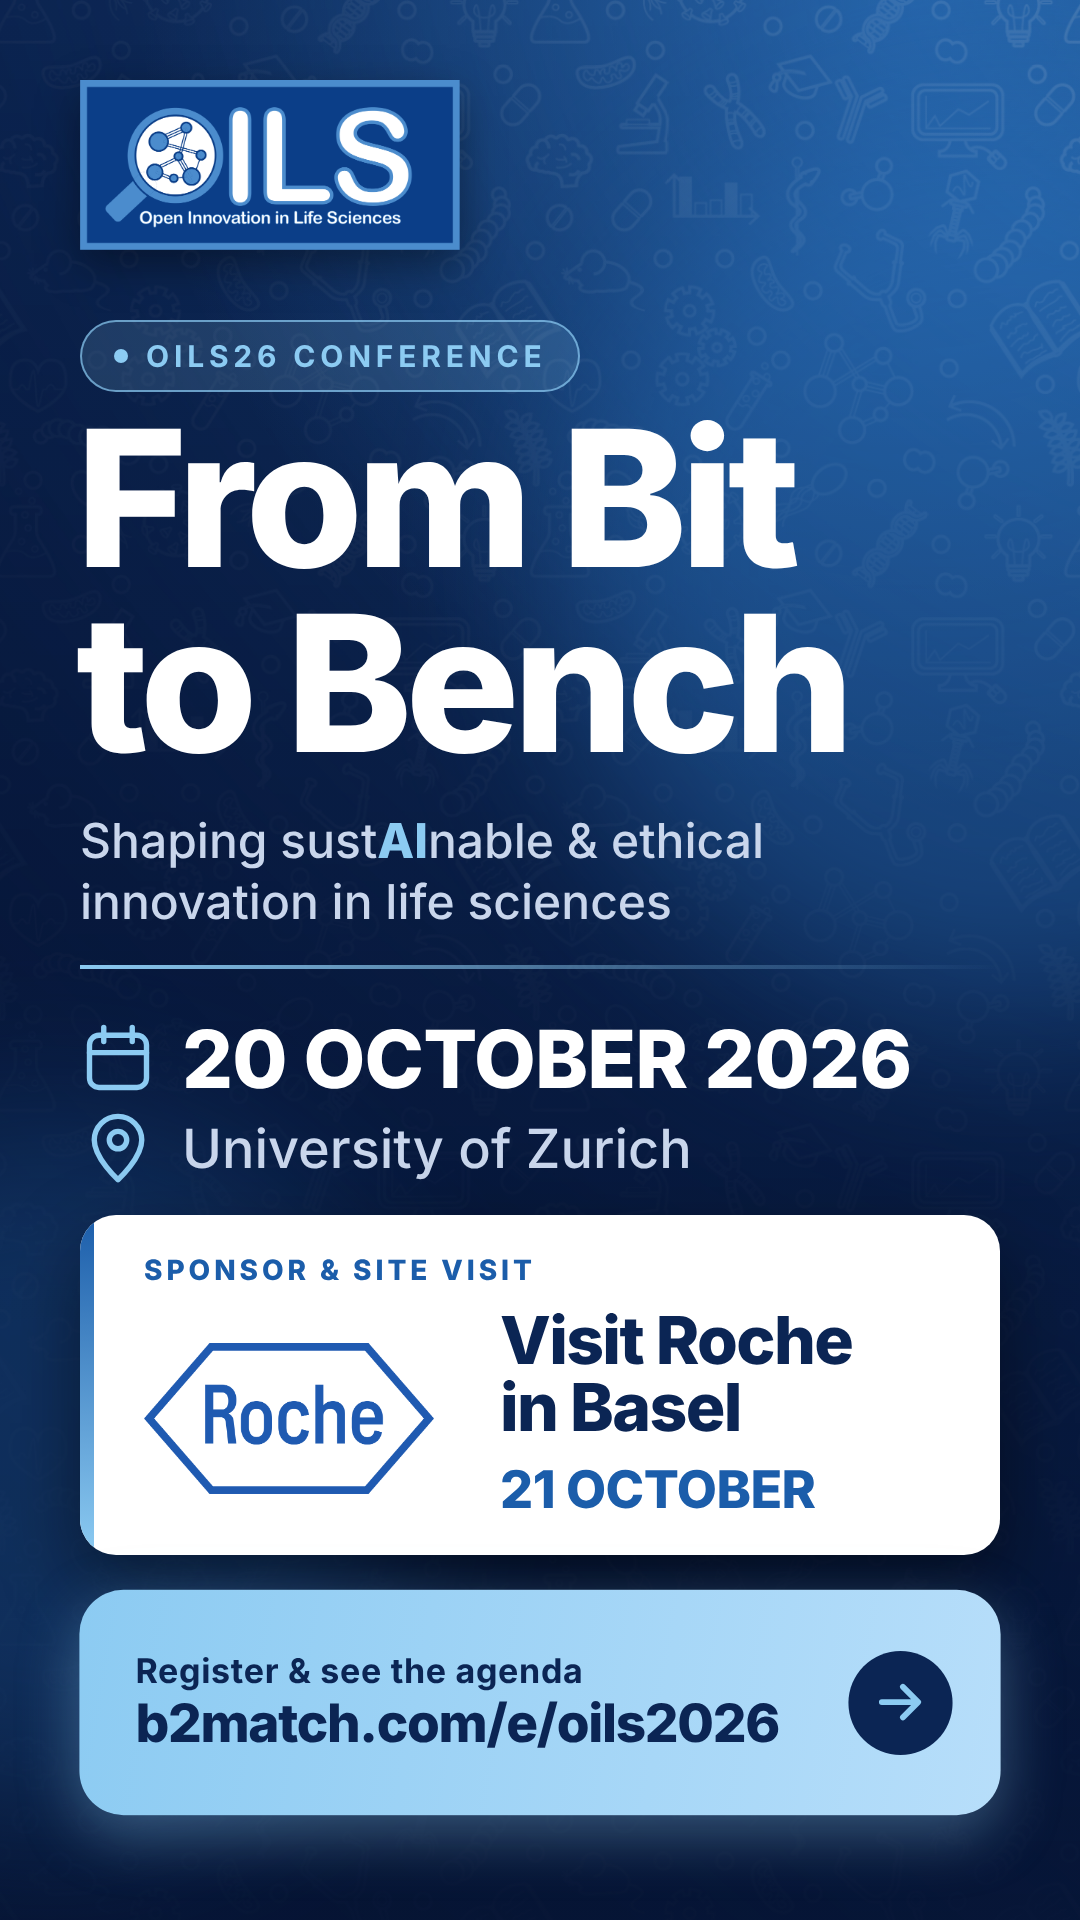
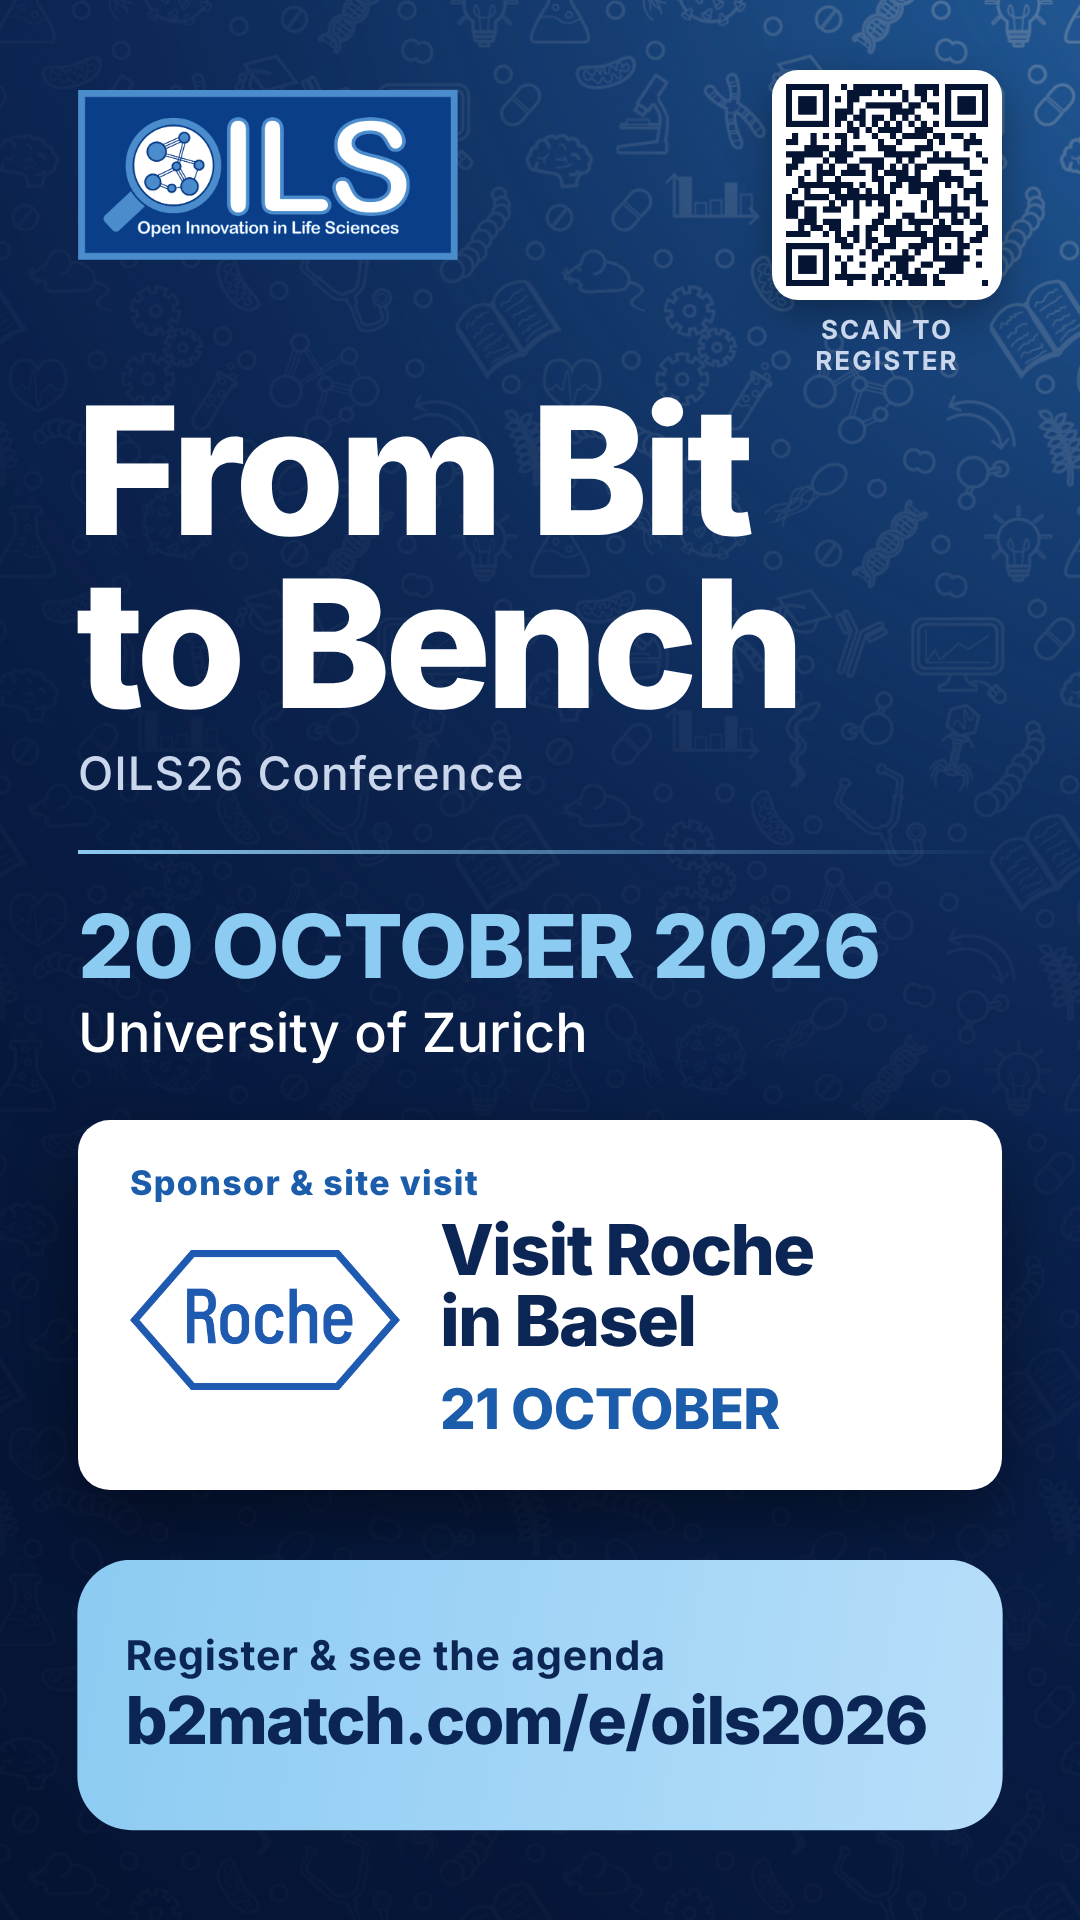
ETH v2 screens: closer to original look, QR at top, no arrow on CTA
Claude-Session: https://claude.ai/code/session_01Yap9T87JWAqq3mxYKugXQZ

diff --git a/Logistica_ETH/build_eth_motion.js b/Logistica_ETH/build_eth_motion.js
@@ -28,10 +28,8 @@ const uri = (file, mime) =>
 const BG = uri("bg_teaser.jpg", "image/jpeg");
 const OILS = uri("oils_logo_fallback.png", "image/png");
 const ROCHE = uri("logo_roche.png", "image/png");
+const QR = uri("qr_oils2026.png", "image/png");
 
-const ICON_CAL = `<svg viewBox="0 0 48 48" fill="none" stroke="currentColor" stroke-width="3.4" stroke-linecap="round" stroke-linejoin="round"><rect x="6" y="9" width="36" height="33" rx="6"/><path d="M6 20h36M15 4v9M33 4v9"/></svg>`;
-const ICON_PIN = `<svg viewBox="0 0 48 48" fill="none" stroke="currentColor" stroke-width="3.4" stroke-linecap="round" stroke-linejoin="round"><path d="M24 44S9 30.5 9 19a15 15 0 0 1 30 0c0 11.500-15 25-15 25z"/><circle cx="24" cy="19" r="5.500"/></svg>`;
-const ICON_ARROW = `<svg viewBox="0 0 48 48" fill="none" stroke="currentColor" stroke-width="5" stroke-linecap="round" stroke-linejoin="round"><path d="M8 24h30M26 11l13 13-13 13"/></svg>`;
 
 // data-in = start second, data-d = duration, data-from = entrance direction
 const page = (w, h, layout) => `<!doctype html><html><head><meta charset="utf-8"><style>
@@ -40,9 +38,7 @@ const page = (w, h, layout) => `<!doctype html><html><head><meta charset="utf-8"
 html,body{width:${w}px;height:${h}px;overflow:hidden;background:var(--navy)}
 body{font-family:Eurostile,'Eurostile Extended',Inter,Helvetica,Arial,sans-serif;color:#fff;position:relative}
 .bg{position:absolute;inset:-6%;background:url(${BG}) center/cover;will-change:transform}
-.shade{position:absolute;inset:0;background:
-  radial-gradient(120% 70% at 85% 0%,rgba(46,120,200,.55),transparent 60%),
-  linear-gradient(180deg,rgba(6,20,51,.35),rgba(6,20,51,.78))}
+.shade{position:absolute;inset:0;background:rgba(6,20,51,.30)}
 .glow{position:absolute;border-radius:50%;filter:blur(90px);background:#2f7fd0;opacity:.35}
 .el{position:absolute;opacity:0}
 .title{font-weight:800;letter-spacing:-.035em;line-height:.98}
@@ -60,9 +56,7 @@ body{font-family:Eurostile,'Eurostile Extended',Inter,Helvetica,Arial,sans-serif
 .card .h{font-weight:800;letter-spacing:-.025em;line-height:1.02}
 .card .d{font-weight:800;color:var(--blue);letter-spacing:-.01em}
 .card img{display:block}
-.card .bar{height:100%;position:absolute;left:0;top:0;width:14px;background:linear-gradient(180deg,#1b5daa,#8ccbf2)}
-.cta{background:linear-gradient(100deg,#8ccbf2,#b7defa);color:var(--ink);display:flex;align-items:center;justify-content:space-between;
-  box-shadow:0 20px 60px rgba(140,203,242,.35)}
+.cta{background:linear-gradient(100deg,#8ccbf2,#b7defa);color:var(--ink);display:flex;align-items:center;justify-content:space-between}
 .cta .l{font-family:Inter,Helvetica,sans-serif;font-weight:700;letter-spacing:.02em}
 .cta .u{font-weight:800;letter-spacing:-.025em}
 .cta .go{background:var(--ink);color:var(--sky);border-radius:50%;display:grid;place-items:center;flex:none}
@@ -93,64 +87,66 @@ render(0);
 const portrait = {
   w: 1080, h: 1920,
   css: `
-  .logo{left:80px;top:80px;width:380px}.logo img{width:100%;display:block;box-shadow:0 14px 40px rgba(0,0,0,.4)}
-  .chip{font-size:30px;padding:16px 32px}
-  .title{font-size:190px}
-  .tag{font-size:48px}
-  .when{font-size:80px}.where{font-size:54px}
-  .row svg{width:76px;height:76px}
-  .card{left:80px;width:920px;height:340px;border-radius:36px;overflow:hidden}
-  .card .k{font-size:28px}.card .h{font-size:66px}.card .d{font-size:52px}
-  .cta{left:80px;width:920px;height:225px;border-radius:44px;padding:0 48px 0 56px}
-  .cta .l{font-size:34px}.cta .u{font-size:53px}.cta .go{width:104px;height:104px}
+  .logo{left:78px;top:90px;width:380px}.logo img{width:100%;display:block}
+  .qr{left:772px;top:70px;width:230px;text-align:center}
+  .qr .t{background:#fff;border-radius:26px;padding:14px;box-shadow:0 14px 40px rgba(0,0,0,.35)}.qr img{width:100%;display:block}
+  .qr .c{font-family:Inter,Helvetica,sans-serif;font-weight:700;font-size:26px;letter-spacing:.08em;text-transform:uppercase;color:var(--soft);margin-top:14px}
+  .title{font-size:178px;line-height:.97}
+  .sub{font-family:Inter,Helvetica,sans-serif;font-weight:500;font-size:46px;letter-spacing:.02em;color:var(--soft)}
+  .when{font-size:88px;color:var(--sky)}.where{font-size:54px;font-family:Inter,Helvetica,sans-serif;font-weight:500;color:#fff}
+  .card{border-radius:32px;overflow:hidden}
+  .card .k{font-size:34px;letter-spacing:.04em;text-transform:none}.card .h{font-size:70px}.card .d{font-size:56px}
+  .cta{border-radius:54px;padding:0 48px}
+  .cta .l{font-size:41px}.cta .u{font-size:66px}
   `,
-  glows: `<div class="glow" style="width:900px;height:900px;right:-380px;top:120px"></div>
-          <div class="glow" style="width:700px;height:700px;left:-300px;bottom:100px;opacity:.25"></div>`,
+  glows: ``,
   html: `
   <div class="el logo" data-in="0.2" data-from="left"><img src="${OILS}"></div>
-  <div class="el" data-in="0.7" style="left:80px;top:320px"><span class="chip"><i></i>OILS26 Conference</span></div>
-  <div class="el title" data-in="1.0" style="left:76px;top:405px">From Bit</div>
-  <div class="el title" data-in="1.35" style="left:76px;top:590px">to Bench</div>
-  <div class="el tag" data-in="1.9" style="left:80px;top:810px;width:900px">Shaping sust<b>AI</b>nable &amp; ethical<br>innovation in life sciences</div>
-  <div class="el rule" data-in="2.6" data-from="left" style="left:80px;top:965px;width:920px"></div>
-  <div class="el row" data-in="3.0" data-from="left" style="left:80px;top:1010px">${ICON_CAL}<span class="when">20 OCTOBER 2026</span></div>
-  <div class="el row" data-in="3.5" data-from="left" style="left:80px;top:1110px">${ICON_PIN}<span class="where">University of Zurich</span></div>
-  <div class="el card" data-in="4.4" style="left:80px;top:1215px;position:absolute"><div class="bar"></div>
-    <div style="position:absolute;left:64px;top:38px" class="k">Sponsor &amp; site visit</div>
-    <img src="${ROCHE}" style="position:absolute;left:64px;top:128px;width:290px">
-    <div style="position:absolute;left:420px;top:92px"><div class="h">Visit Roche<br>in Basel</div><div class="d" style="margin-top:16px">21 OCTOBER</div></div></div>
-  <div class="el cta" data-in="5.6" data-pulse="1" style="left:80px;top:1590px"><div><div class="l">Register &amp; see the agenda</div><div class="u">b2match.com/e/oils2026</div></div><div class="go">${ICON_ARROW}</div></div>
+  <div class="el qr" data-in="0.5" data-from="right"><div class="t"><img src="${QR}"></div><div class="c">Scan to register</div></div>
+  <div class="el title" data-in="1.0" style="left:76px;top:385px">From Bit<br>to Bench</div>
+  <div class="el sub" data-in="1.8" style="left:78px;top:745px">OILS26 Conference</div>
+  <div class="el rule" data-in="2.4" data-from="left" style="left:78px;top:850px;width:924px"></div>
+  <div class="el when" data-in="2.8" data-from="left" style="left:78px;top:893px">20 OCTOBER 2026</div>
+  <div class="el where" data-in="3.3" data-from="left" style="left:78px;top:1000px">University of Zurich</div>
+  <div class="el card" data-in="4.2" style="left:78px;top:1120px;width:924px;height:370px">
+    <div class="k" style="position:absolute;left:52px;top:42px">Sponsor &amp; site visit</div>
+    <img src="${ROCHE}" style="position:absolute;left:52px;top:130px;width:270px">
+    <div style="position:absolute;left:362px;top:94px"><div class="h">Visit Roche<br>in Basel</div><div class="d" style="margin-top:18px">21 OCTOBER</div></div></div>
+  <div class="el cta" data-in="5.4" data-pulse="1" style="left:78px;top:1560px;width:924px;height:270px;align-items:flex-start;flex-direction:column;justify-content:center"><div class="l">Register &amp; see the agenda</div><div class="u">b2match.com/e/oils2026</div></div>
   `,
 };
 
 const landscape = {
   w: 1920, h: 1080,
   css: `
-  .logo{left:96px;top:64px;width:330px}.logo img{width:100%;display:block;box-shadow:0 14px 40px rgba(0,0,0,.4)}
-  .chip{font-size:28px;padding:14px 30px}
-  .title{font-size:132px}
-  .when{font-size:80px}.where{font-size:50px}
-  .row svg{width:76px;height:76px}
-  .card{left:1230px;top:90px;width:600px;height:900px;border-radius:40px;overflow:hidden}
-  .card .k{font-size:28px}.card .h{font-size:78px}.card .d{font-size:62px}
-  .cta{width:1010px;height:170px;border-radius:40px;padding:0 40px 0 56px}
-  .cta .l{font-size:32px}.cta .u{font-size:62px}.cta .go{width:96px;height:96px}
+  .logo{left:90px;top:70px;width:330px}.logo img{width:100%;display:block}
+  .qr{left:890px;top:48px;width:220px;text-align:center}
+  .qr .t{background:#fff;border-radius:24px;padding:13px;box-shadow:0 14px 40px rgba(0,0,0,.35)}.qr img{width:100%;display:block}
+  .qr .c{font-family:Inter,Helvetica,sans-serif;font-weight:700;font-size:24px;letter-spacing:.08em;text-transform:uppercase;color:var(--soft);margin-top:12px}
+  .title{font-size:124px;line-height:1}
+  .sub{font-family:Inter,Helvetica,sans-serif;font-weight:500;font-size:44px;letter-spacing:.02em;color:var(--soft)}
+  .when{font-size:80px;color:var(--sky)}.where{font-size:48px;font-family:Inter,Helvetica,sans-serif;font-weight:500;color:#fff}
+  .card{border-radius:36px;overflow:hidden}
+  .card .k{font-size:34px;letter-spacing:.02em;text-transform:none}.card .h{font-size:76px}.card .d{font-size:62px}
+  .cta{border-radius:38px;padding:0 48px}
+  .cta .l{font-size:42px}.cta .u{font-size:76px}
   `,
-  glows: `<div class="glow" style="width:800px;height:800px;right:-250px;top:-200px"></div>
-          <div class="glow" style="width:600px;height:600px;left:-200px;bottom:-250px;opacity:.25"></div>`,
+  glows: ``,
   html: `
   <div class="el logo" data-in="0.2" data-from="left"><img src="${OILS}"></div>
-  <div class="el" data-in="0.7" style="left:96px;top:250px"><span class="chip"><i></i>OILS26 Conference</span></div>
-  <div class="el title" data-in="1.0" style="left:92px;top:332px">From Bit<br>to Bench</div>
-  <div class="el row" data-in="3.0" data-from="left" style="left:96px;top:625px">${ICON_CAL}<span class="when">20 OCTOBER 2026</span></div>
-  <div class="el row" data-in="3.5" data-from="left" style="left:96px;top:722px">${ICON_PIN}<span class="where">University of Zurich</span></div>
-  <div class="el card" data-in="4.4" data-from="right" style="position:absolute"><div class="bar"></div>
-    <img src="${ROCHE}" style="position:absolute;left:84px;top:96px;width:440px">
-    <div class="rule" style="position:absolute;left:64px;top:420px;width:470px;background:#dbe7f4;opacity:1"></div>
-    <div class="k" style="position:absolute;left:64px;top:470px">Sponsor &amp; site visit</div>
-    <div class="h" style="position:absolute;left:64px;top:540px">Visit Roche<br>in Basel</div>
-    <div class="d" style="position:absolute;left:64px;top:740px">21 OCTOBER</div></div>
-  <div class="el cta" data-in="5.6" data-pulse="1" style="left:96px;top:820px"><div><div class="l">Register &amp; see the agenda</div><div class="u">b2match.com/e/oils2026</div></div><div class="go">${ICON_ARROW}</div></div>
+  <div class="el qr" data-in="0.5" data-from="right"><div class="t"><img src="${QR}"></div><div class="c">Scan to register</div></div>
+  <div class="el title" data-in="1.0" style="left:88px;top:345px">From Bit to Bench</div>
+  <div class="el sub" data-in="1.8" style="left:90px;top:478px">OILS26 Conference</div>
+  <div class="el rule" data-in="2.4" data-from="left" style="left:90px;top:570px;width:1020px"></div>
+  <div class="el when" data-in="2.8" data-from="left" style="left:90px;top:603px">20 OCTOBER 2026</div>
+  <div class="el where" data-in="3.3" data-from="left" style="left:90px;top:690px">University of Zurich</div>
+  <div class="el card" data-in="4.2" data-from="right" style="left:1230px;top:120px;width:600px;height:840px">
+    <img src="${ROCHE}" style="position:absolute;left:80px;top:70px;width:440px">
+    <div class="rule" style="position:absolute;left:60px;top:340px;width:480px;background:#dbe7f4;opacity:1"></div>
+    <div class="k" style="position:absolute;left:60px;top:400px">Sponsor &amp; site visit</div>
+    <div class="h" style="position:absolute;left:60px;top:470px">Visit Roche<br>in Basel</div>
+    <div class="d" style="position:absolute;left:60px;top:670px">21 OCTOBER</div></div>
+  <div class="el cta" data-in="5.4" data-pulse="1" style="left:90px;top:800px;width:1020px;height:190px;align-items:flex-start;flex-direction:column;justify-content:center"><div class="l">Register &amp; see the agenda</div><div class="u">b2match.com/e/oils2026</div></div>
   `,
 };
 
